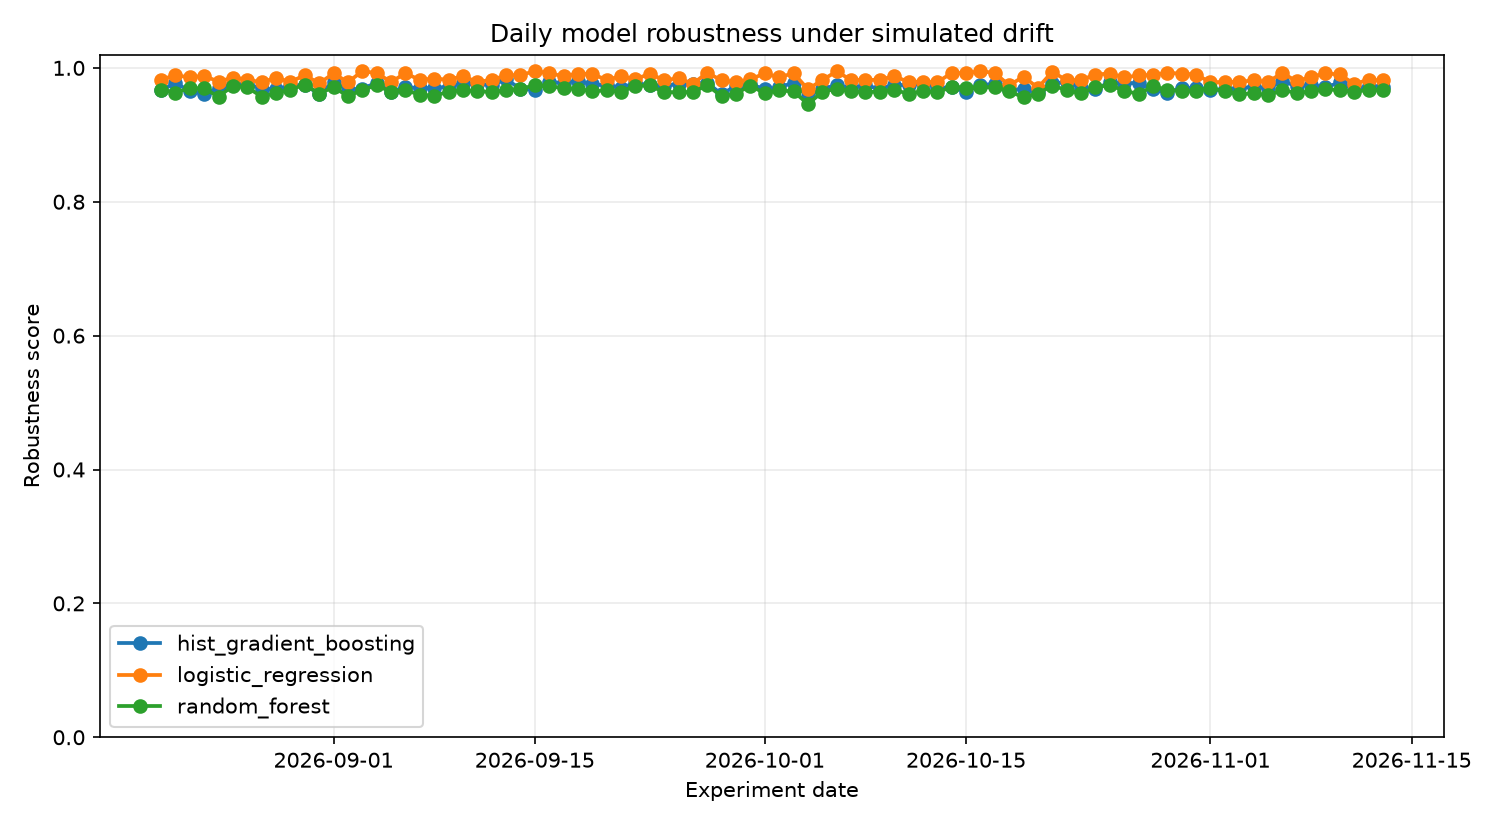
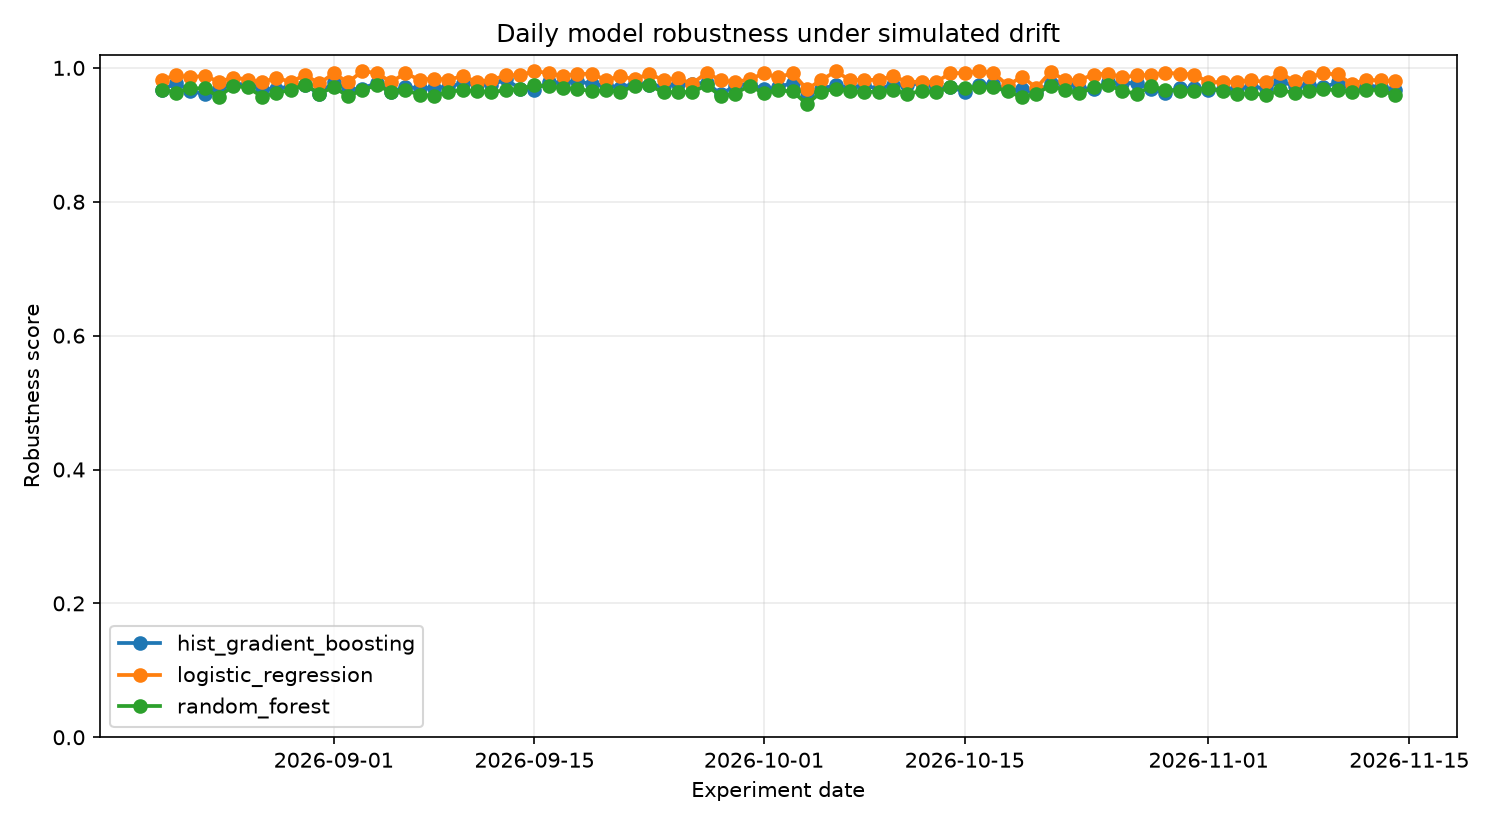
chore(observatory): daily drift benchmark 2026-11-14

diff --git a/reports/latest.md b/reports/latest.md
@@ -1,37 +1,37 @@
 # Latest DriftWatch Report
 
-**Experiment date:** 2026-11-13
+**Experiment date:** 2026-11-14
 
 ## Drift scenario
 
-- Drift strength: `0.272`
-- Scale factor: `1.027`
-- Noise ratio: `0.058`
-- Mask ratio: `0.015`
-- Affected features: mean texture, mean concave points, radius error, area error, concave points error, worst smoothness
+- Drift strength: `0.340`
+- Scale factor: `1.034`
+- Noise ratio: `0.066`
+- Mask ratio: `0.017`
+- Affected features: mean perimeter, texture error, area error, smoothness error, worst perimeter, worst smoothness, worst fractal dimension
 
 ## Model ranking
 
 | Rank | Model | Robustness | ROC-AUC | F1 | Balanced Acc. | Log Loss | Brier |
 |---:|---|---:|---:|---:|---:|---:|---:|
-| 1 | `logistic_regression` | 0.9812 | 0.9980 | 0.9714 | 0.9688 | 0.1051 | 0.0314 |
-| 2 | `hist_gradient_boosting` | 0.9719 | 0.9918 | 0.9623 | 0.9532 | 0.1283 | 0.0414 |
-| 3 | `random_forest` | 0.9670 | 0.9920 | 0.9528 | 0.9407 | 0.1312 | 0.0380 |
+| 1 | `logistic_regression` | 0.9800 | 0.9991 | 0.9665 | 0.9642 | 0.0851 | 0.0240 |
+| 2 | `hist_gradient_boosting` | 0.9672 | 0.9930 | 0.9528 | 0.9407 | 0.1201 | 0.0401 |
+| 3 | `random_forest` | 0.9592 | 0.9918 | 0.9378 | 0.9267 | 0.1452 | 0.0425 |
 
 ## Highest feature drift (PSI)
 
 | Feature | PSI |
 |---|---:|
-| area error | 1.4404 |
-| mean concave points | 0.3147 |
-| concave points error | 0.2428 |
-| radius error | 0.1614 |
-| texture error | 0.1318 |
-| worst concavity | 0.1280 |
-| mean concavity | 0.1204 |
-| perimeter error | 0.1190 |
+| area error | 1.6042 |
+| worst fractal dimension | 0.2761 |
+| texture error | 0.2512 |
+| smoothness error | 0.2496 |
+| mean perimeter | 0.1462 |
+| worst perimeter | 0.1436 |
+| mean fractal dimension | 0.1348 |
+| fractal dimension error | 0.1331 |
 
-**Mean PSI:** `0.1382`  
-**Max PSI:** `1.4404`
+**Mean PSI:** `0.1551`  
+**Max PSI:** `1.6042`
 
 _Generated automatically by the DriftWatch daily observatory pipeline._
